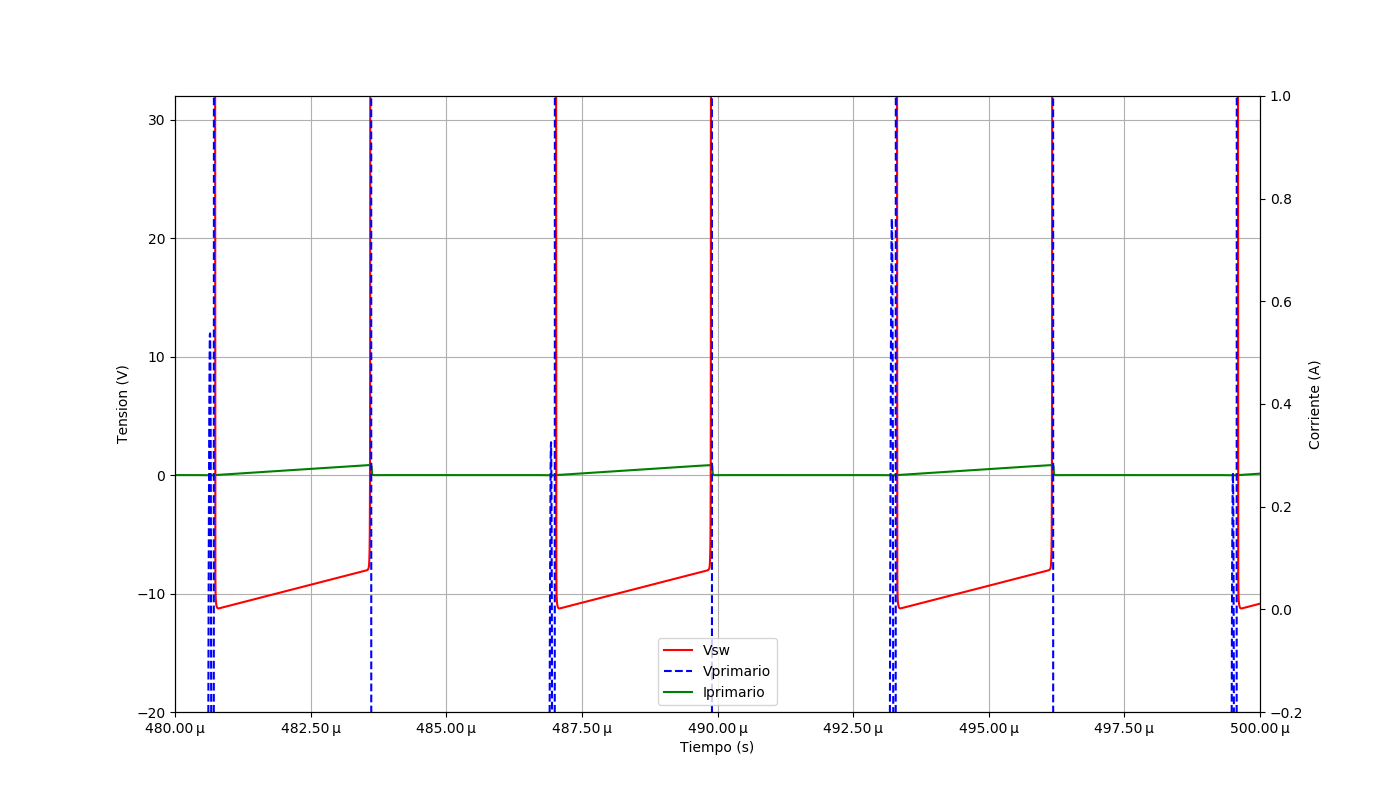
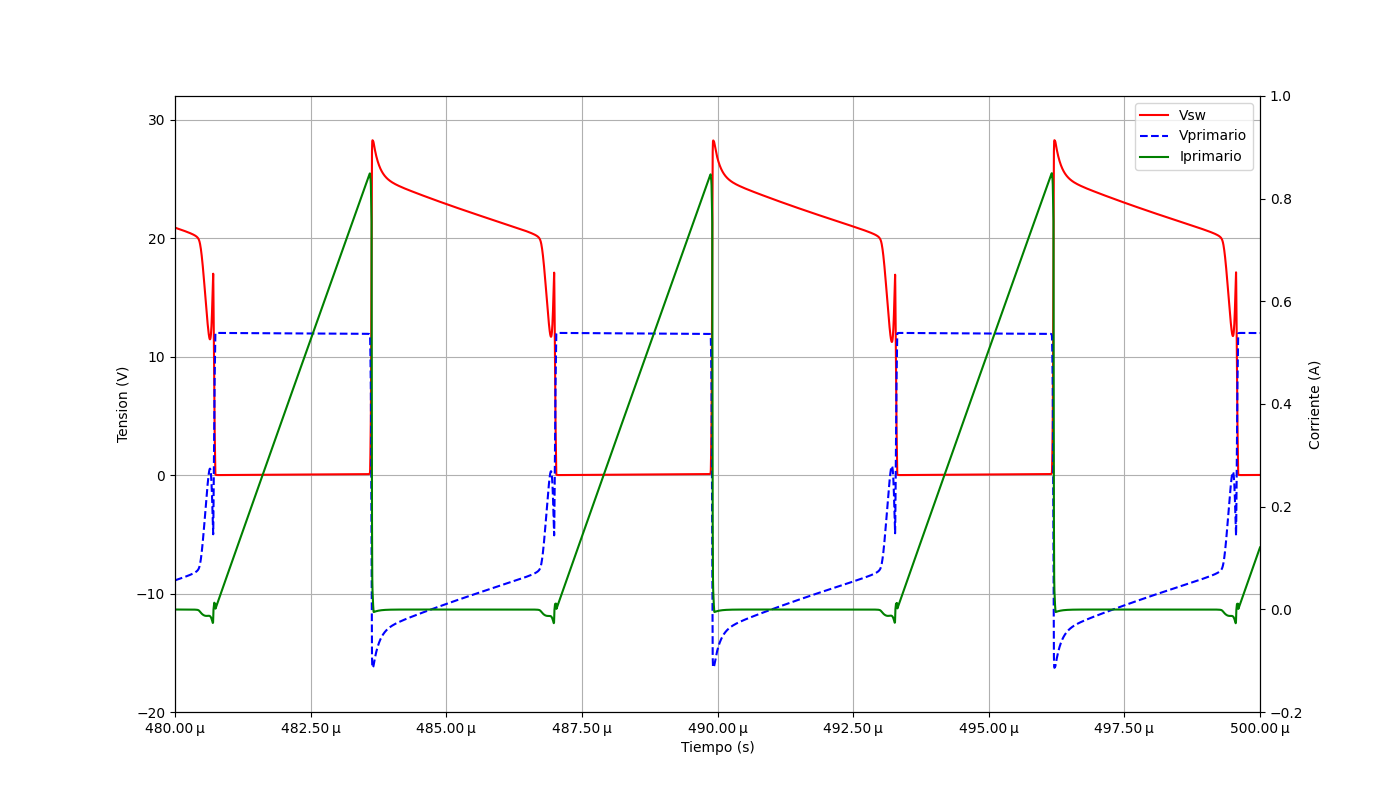
bug fix

diff --git a/TP2/PlotScrips/main.py b/TP2/PlotScrips/main.py
@@ -39,7 +39,7 @@ if __name__ == '__main__':
                 line = ax1.plot(time, curr_data, label=graphic['label'], linestyle=graphic['linestyle'], color=graphic['color'])[0]
                 label = line.get_label()
             else:
-                if graphic['belongsToRightYAxis']:
+                if not graphic['belongsToRightYAxis']:
                     line = ax1.plot(time, curr_data, label=graphic['label'], linestyle=graphic['linestyle'], color=graphic['color'])[0]
                     label = line.get_label()
                 else:
